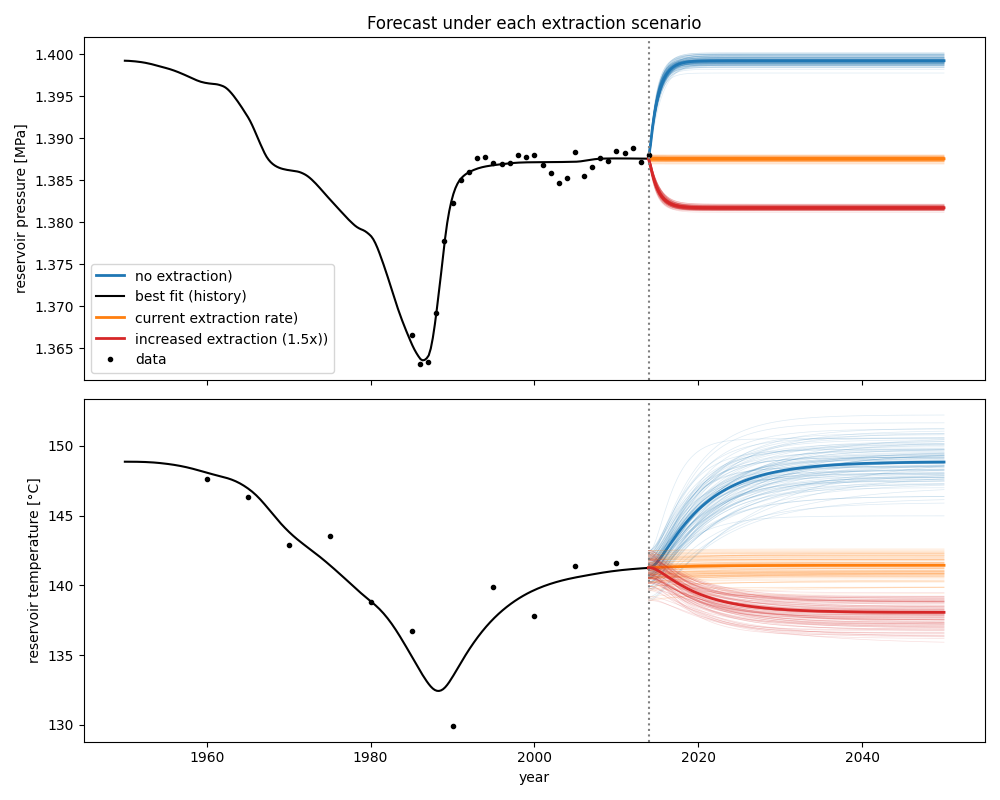
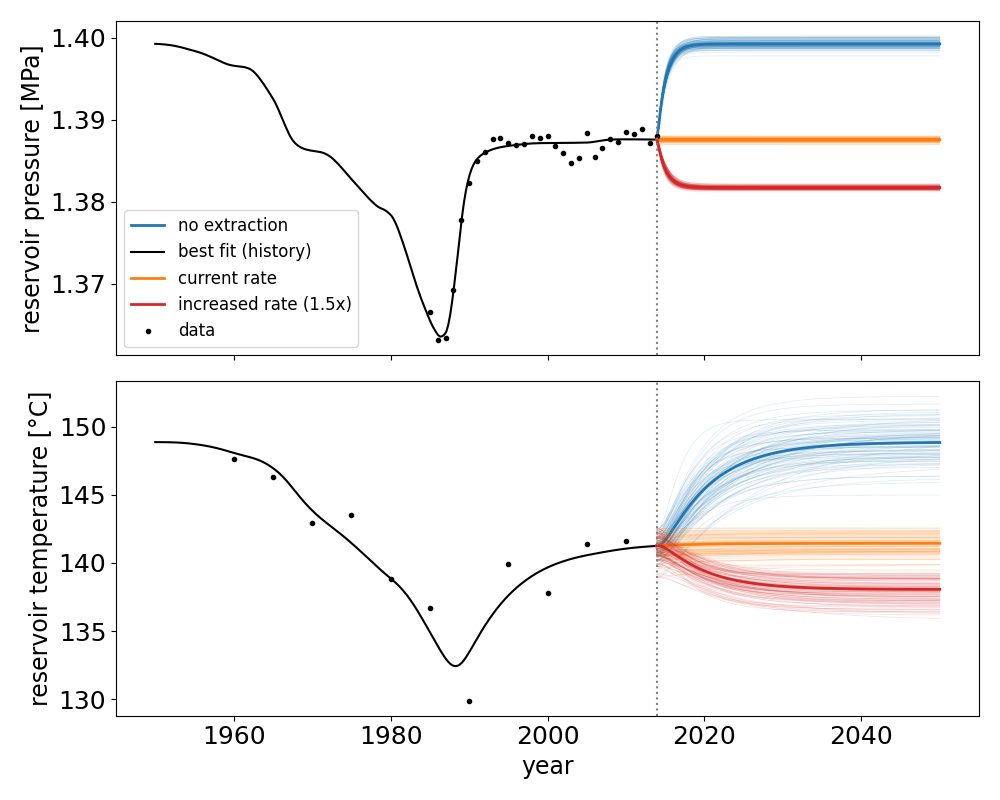
Increased font size of remaining plots

diff --git a/uncertainty.py b/uncertainty.py
@@ -22,14 +22,24 @@ from calibration import (df, year, t_data, SEC_PER_YEAR, TDAY_TO_KGS,
                                 simulate, to_sim_pars, compound_initial,
                                 free_P, free_T, fit_P, cov_P, fit_T, cov_T, cal)
 
+FONT_SIZE = 18
+plt.rcParams.update({
+    "font.size": FONT_SIZE,
+    "axes.labelsize": FONT_SIZE,
+    "axes.titlesize": FONT_SIZE + 2,
+    "xtick.labelsize": FONT_SIZE,
+    "ytick.labelsize": FONT_SIZE,
+    "legend.fontsize": FONT_SIZE - 2,
+})
+
 # ---- settings you may want to change --------------------------------------
 N_SAMPLES = 100
 END_YEAR = 2050             # forecast horizon (must be after the last data year)
 REPORT_YEAR = END_YEAR      # year at which the prediction intervals are reported
 SCENARIOS = {               # future extraction as a multiple of the last recorded rate
     "no extraction": 0.0,   # edit these to match the scenarios in your brief
-    "current extraction rate": 1.0,
-    "increased extraction (1.5x)": 1.5,
+    "current rate": 1.0,
+    "increased rate (1.5x)": 1.5,
 }
 
 # ---- 1. parameter uncertainty ---------------------------------------------
@@ -102,6 +112,16 @@ axes1b[0].legend()
 fig1b.suptitle("Posterior (Gaussian approximation): a vs b and c vs d")
 fig1b.tight_layout()
 
+FONT_SIZE = 14
+plt.rcParams.update({
+    "font.size": FONT_SIZE,
+    "axes.labelsize": FONT_SIZE + 3,
+    "axes.titlesize": FONT_SIZE + 6,
+    "xtick.labelsize": FONT_SIZE + 4,
+    "ytick.labelsize": FONT_SIZE + 4,
+    "legend.fontsize": FONT_SIZE - 2,
+})
+
 # ---- 4. forecast each scenario with every sample --------------------------
 extraction_tday = df["extraction_[tonnes/day]"].to_numpy()
 extraction_kgs = extraction_tday * TDAY_TO_KGS
@@ -140,7 +160,7 @@ for k, (name, factor) in enumerate(SCENARIOS.items()):
     T_ens = np.array([r[2] for r in runs])                     # degC
     _, P_best, T_best = simulate(cal, t_f, q_f)
     results[name] = (P_ens, T_ens)
-    label = f"{name})"
+    label = f"{name}"
 
     for ax, ens, best in [(axP, P_ens, P_best / 1e6), (axT, T_ens, T_best)]:
         ax.plot(yr_f[fut], ens[:, fut].T, color=colour, linewidth=0.5, alpha=0.15)
@@ -157,7 +177,6 @@ for ax in (axP, axT):
 axP.set_ylabel("reservoir pressure [MPa]")
 axT.set_ylabel("reservoir temperature [°C]")
 axT.set_xlabel("year")
-axP.set_title("Forecast under each extraction scenario")
 axP.legend()
 fig2.tight_layout()
 

diff --git a/calibration.py b/calibration.py
@@ -26,6 +26,16 @@ from scipy.optimize import least_squares
 
 from simulator import make_q, solve_model
 
+FONT_SIZE = 18
+plt.rcParams.update({
+    "font.size": FONT_SIZE,
+    "axes.labelsize": FONT_SIZE,
+    "axes.titlesize": FONT_SIZE + 2,
+    "xtick.labelsize": FONT_SIZE,
+    "ytick.labelsize": FONT_SIZE,
+    "legend.fontsize": FONT_SIZE - 2,
+})
+
 # ---- settings you may want to change --------------------------------------
 DATA_FILE = "data/rotorua_data.csv"
 free_P = ["a", "b", "P0"]       # compound parameters of the pressure ODE
